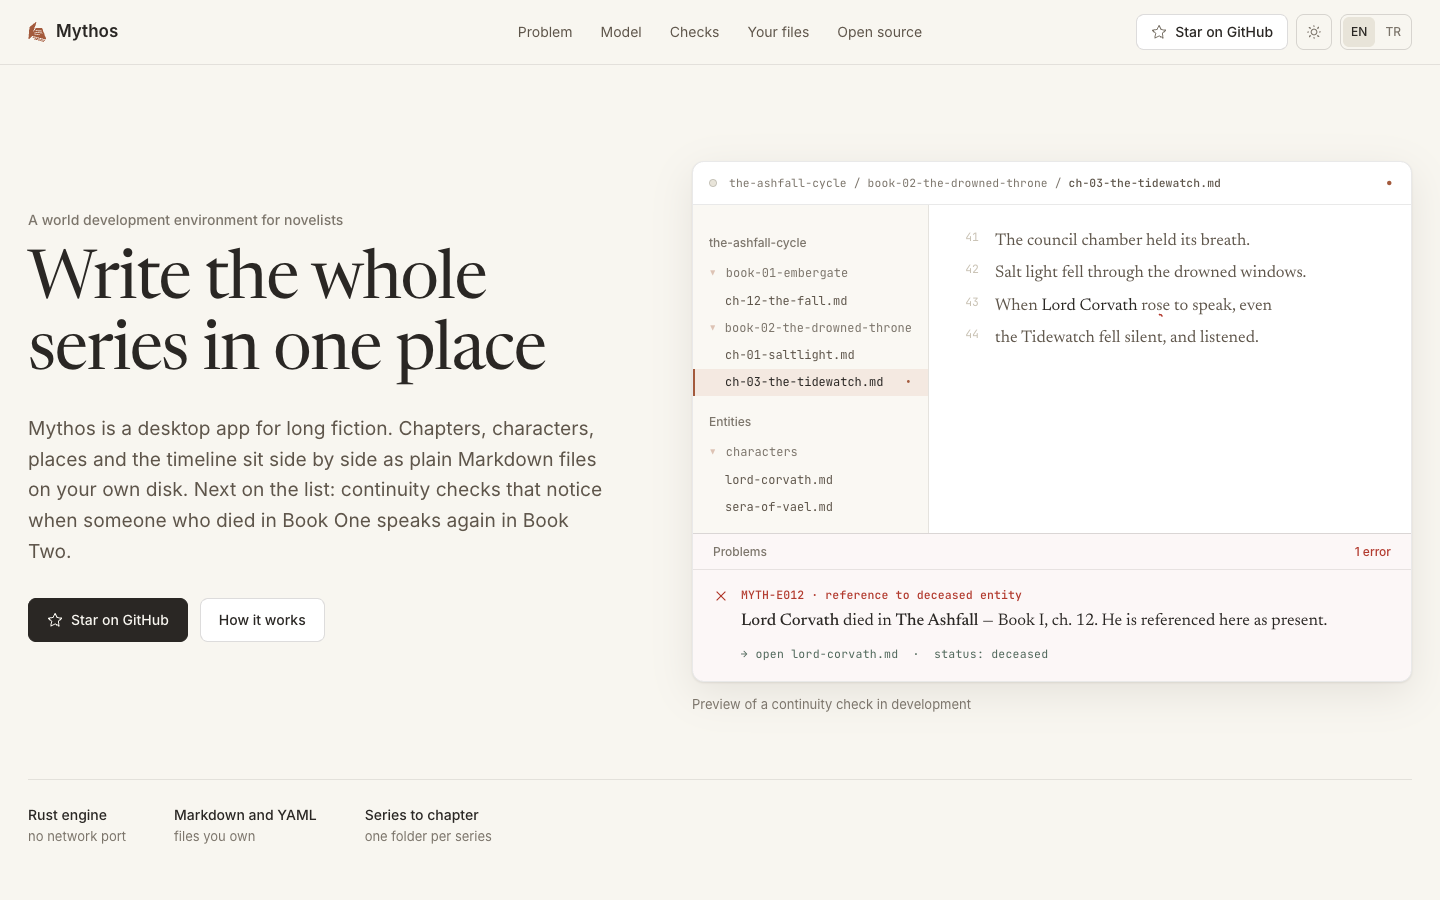
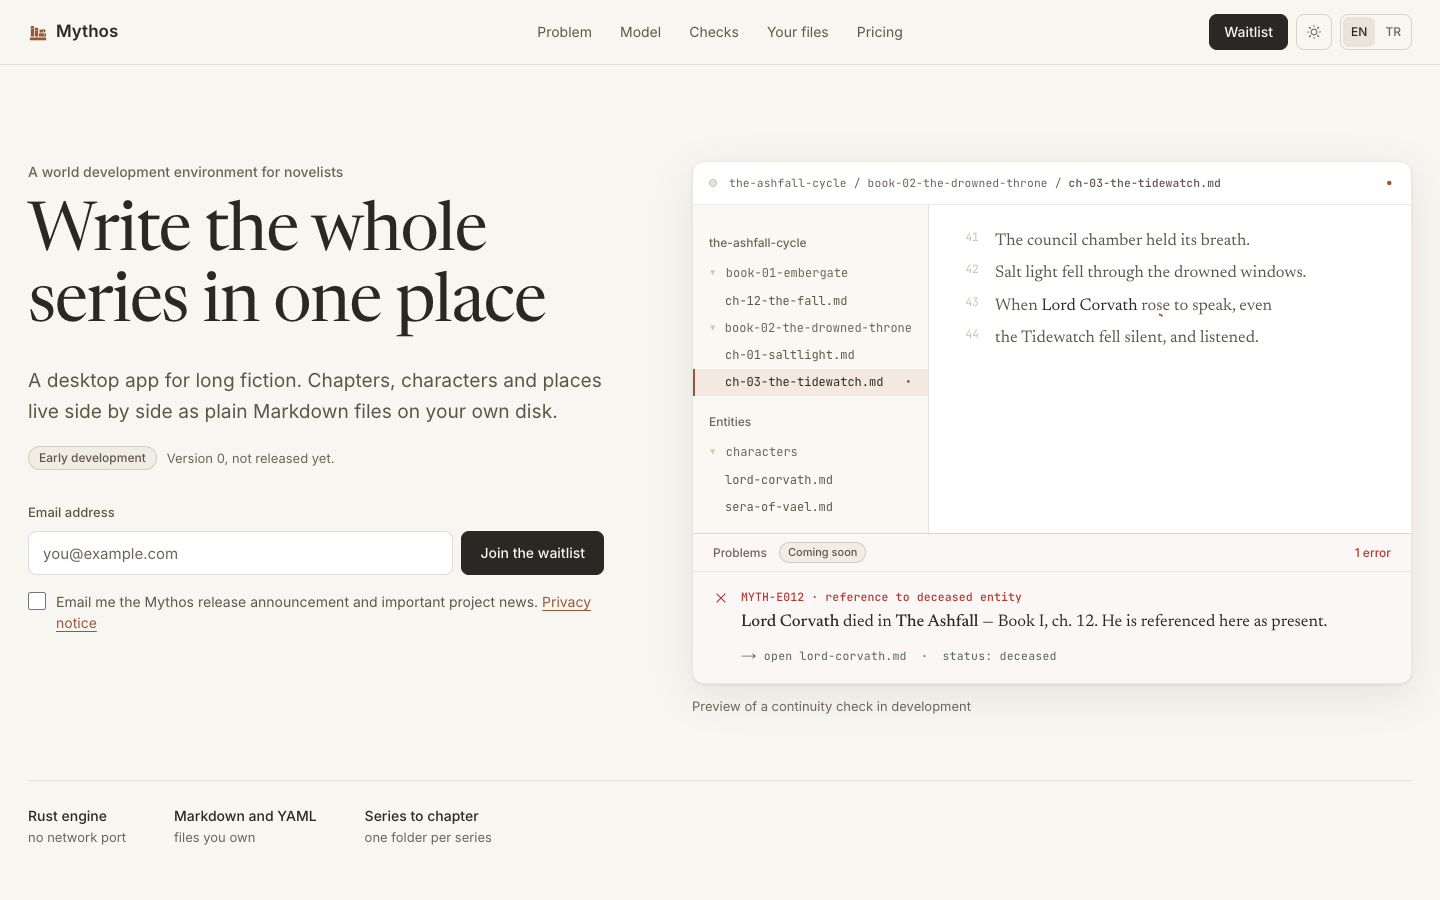
docs: refresh README for the current site
New hero with the shelf mark and the site's page map, a current screenshot,
what the page does with visitor data (waitlist, consent-gated analytics, cookies),
deploy steps, and the current layout. English and Turkish.

diff --git a/README.TR.md b/README.TR.md
@@ -1,5 +1,5 @@
 <p align="center">
-  <img src="assets/readme/hero.svg" width="100%" alt="mythoside.com, Mythos'un ürün sitesi">
+  <img src="assets/readme/hero.svg" width="100%" alt="mythoside.com, Mythos'un ürün sitesi: Mythos raf işareti ve yanında sitenin ürettiği altı sayfa; ana sayfa, aydınlatma metni ve kullanım şartları, her biri İngilizce ve Türkçe">
 </p>
 
 <p align="center">
@@ -7,12 +7,21 @@
 </p>
 
 <p align="center">
-  <a href="https://mythoside.com"><img src="assets/readme/site.png" width="100%" alt="mythoside.com'un ilk ekranı: 'Write the whole series in one place' başlığı ve yanında süreklilik kontrolü gösteren bir editör önizlemesi"></a>
+  <a href="https://mythoside.com"><img src="assets/readme/site.png" width="100%" alt="mythoside.com'un ilk ekranı: 'Write the whole series in one place' başlığı, onay kutulu bekleme listesi formu ve bir süreklilik hatasını işaretleyen editör önizlemesi"></a>
 </p>
 
-Seri yazmak için bir masaüstü uygulaması olan [Mythos](https://github.com/mythoside)'un ürün sitesi. İngilizce ve Türkçe, açık ve koyu temalı tek bir sayfa; uygulamayla aynı sıcak, editoryal görünümde. `main` dalına her merge'de Firebase Hosting'e dağıtılır.
+Seri yazmak için bir masaüstü uygulaması olan [Mythos](https://github.com/mythoside)'un ürün sitesi. Statik bir Next.js çıktısı: altı sayfa, İngilizce ve Türkçe, açık ve koyu tema. Firebase Hosting üzerinden yayınlanıyor. `main`'e yapılan her merge siteyi yayına alır.
 
-## Çalıştır
+## Sayfa ziyaretçiyle ne yapar
+
+| Bölüm | Ne olur |
+| --- | --- |
+| **Bekleme listesi** | Form, yalnızca onay kutusu işaretlendikten sonra Cloud Firestore'a (AB, `eur3`) `waitlist/<email>` kaydını yazar. [`firestore.rules`](./firestore.rules) her adres için tek bir kayda izin verir; kayıtta tam olarak beş alan bulunur ve hepsi denetlenir: e-posta, dil, zaman, onay ve onay metninin sürümü. Bunun dışında hiçbir şeye izin verilmez: okuma, listeleme, güncelleme ve silme kapalıdır. |
+| **Analitik** | Ziyaretçi çerez banner'ında analitiğe izin vermeden Google Tag Manager hiç istenmez. "Hayır" denirse ya da sonradan footer'daki "Çerez tercihleri"nden izin geri alınırsa kapalı kalır ve `_ga` çerezleri silinir. |
+| **Çerezler** | O izin olmadan site hiç çerez yazmaz. Tema, dil ve çerez tercihi `localStorage`'da tutulur. |
+| **Yasal sayfalar** | Aydınlatma metni ve kullanım şartları, iki dilde, [`src/content/`](./src/content) içinden üretilir. |
+
+## Çalıştırma
 
 ```bash
 git clone https://github.com/mythoside/mythoside-website.git
@@ -23,32 +32,45 @@ npm run build   # out/ içine statik çıktı
 npm run lint
 ```
 
-## Teknolojiler
+Yerel sunucudaki form da canlı Firestore'a yazar, yani deneme kaydı gerçek bir kayıt oluşturur.
 
-| Katman | Araç |
+## Yayına alma
+
+| Ne | Nasıl |
 | --- | --- |
-| Arayüz | React 19, TypeScript |
-| Çatı | Next.js (App Router, statik çıktı) |
-| Stil | Tailwind CSS v4 ve `app/globals.css` içindeki tasarım token'ları |
-| Yazı tipleri | Inter, Newsreader, JetBrains Mono, `next/font` ile |
-| Barındırma | Firebase Hosting, GitHub Actions ile dağıtım |
+| Sayfalar | `main`'e merge et. GitHub Actions lint ve build'i çalıştırır, sonra `out/` klasörünü Firebase Hosting'e yükler. Pull request'ler için bir önizleme kanalı açılır. |
+| Firestore kuralları | `npx firebase-tools deploy --only firestore:rules --project mythoside` |
+| Hoş geldin maili | [`functions/`](./functions), yeni kayıtlara SMTP üzerinden mail gönderecek bir Cloud Function içerir. **Yayında değil.** Yayına alınmadan önce aydınlatma metninde mail sağlayıcısının adı yazmalı. |
+
+## Teknoloji
+
+| Katman | Araçlar |
+| --- | --- |
+| Arayüz | React 19, TypeScript, `any` yok |
+| Çatı | Next.js App Router, `output: 'export'` |
+| Stil | Tailwind CSS v4 ve `app/globals.css` içindeki tasarım değişkenleri |
+| Yazı tipleri | Inter, Newsreader, JetBrains Mono; `next/font` ile siteden sunulur |
+| Veri | REST API üzerinden Cloud Firestore; sayfada Firebase SDK yok |
+| Barındırma | Firebase Hosting, GitHub Actions ile yayına alınır |
 
 ## Klasör yapısı
 
 ```text
-app/(en)/, app/tr/       / ve /tr için kök layout ve sayfalar (her biri kendi <html lang> değerini taşır)
-firestore.rules           bekleme listesi kuralları: yalnızca oluşturma, doğrulamalı
-app/globals.css           tasarım token'ları, açık ve koyu tema
-src/enums.ts              kapalı seçenek kümeleri: Lang, Theme, ButtonVariant, IconName, NodeKind, SectionId, RuleSeverity, TreeRowKind
-src/i18n/                 sitedeki bütün metinler, İngilizce ve Türkçe; sağlayıcı ve geçiş düğmesi
-src/theme/                tema sağlayıcısı ve geçiş düğmesi
-src/components/sections/  Navbar, Hero, Problem, HowItWorks, Features, Philosophy, OpenSource, FinalCTA, Footer
-src/components/ui/        Logo, Icon, ReferenceGraph (canvas kuvvet grafiği), Button, Card, FadeIn, SectionShell
-public/                   favicon, paylaşım görseli (og.png), robots.txt, sitemap.xml ve logo dosyaları
+app/(en)/, app/tr/        sayfalar: /, /privacy, /terms ve /tr, /tr/gizlilik, /tr/kullanim-sartlari
+app/globals.css           tasarım değişkenleri, açık ve koyu tema
+src/i18n/messages.ts      sayfadaki her metin, İngilizce ve Türkçe
+src/content/              aydınlatma metni ve kullanım şartları, İngilizce ve Türkçe
+src/components/sections/  ana sayfa: Navbar, Hero, Problem, HowItWorks, Features, Philosophy, OpenSource, FinalCTA, Footer
+src/components/ui/        Logo, WaitlistForm, ConsentBanner, ReferenceGraph ve küçük parçalar
+src/lib/                  bekleme listesi (Firestore), analitik (onay ve GTM), SEO, yazı tipleri, depolama anahtarları
+src/enums.ts              bileşenleri besleyen kapalı seçenek kümeleri
+firestore.rules           bekleme listesi kuralları
+functions/                hoş geldin maili (yayında değil)
+public/                   favicon, paylaşım görseli, logo dosyaları, robots.txt, sitemap.xml
 ```
 
-Metni değiştirmek için `src/i18n/messages.ts` dosyasını düzenle; İngilizce ve Türkçe girdileri birlikte güncelle.
+Bir metni değiştirmek için `src/i18n/messages.ts` dosyasını düzenle; İngilizce ve Türkçe karşılıkları birlikte güncelle. Onay kutusunun ya da aydınlatma metninin söylediği şeyi değiştirirsen `src/lib/waitlist.ts` içindeki `CONSENT_VERSION` değerini artır.
 
 ## Lisans
 
-Sitenin kodu MIT lisanslı, bkz. [LICENSE](./LICENSE). Mythos adı ve logosu bu lisansın kapsamında değildir. Motor ve uygulama kendi repolarında FSL-1.1-ALv2 ile lisanslıdır.
+Sitenin kodu MIT lisanslı, bkz. [LICENSE](./LICENSE). Mythos adı ve logosu bu lisansın kapsamında değil. Motor ve uygulama, kendi repolarında FSL-1.1-ALv2 lisansıyla yayımlanıyor.

diff --git a/README.md b/README.md
@@ -1,5 +1,5 @@
 <p align="center">
-  <img src="assets/readme/hero.svg" width="100%" alt="mythoside.com, the Mythos product site">
+  <img src="assets/readme/hero.svg" width="100%" alt="mythoside.com, the Mythos product site: the Mythos shelf mark beside the six pages the site exports, home, privacy notice and terms of use, each in English and Turkish">
 </p>
 
 <p align="center">
@@ -7,10 +7,19 @@
 </p>
 
 <p align="center">
-  <a href="https://mythoside.com"><img src="assets/readme/site.png" width="100%" alt="The first screen of mythoside.com: the headline 'Write the whole series in one place' beside a preview of the editor with a continuity check"></a>
+  <a href="https://mythoside.com"><img src="assets/readme/site.png" width="100%" alt="The first screen of mythoside.com: the headline 'Write the whole series in one place', the waitlist form with its consent checkbox, and a preview of the editor flagging a continuity error"></a>
 </p>
 
-The product site for [Mythos](https://github.com/mythoside), a desktop app for writing a series. One page in English and Turkish, with light and dark themes, in the same warm editorial style as the app. It deploys to Firebase Hosting on every merge to `main`.
+The product site for [Mythos](https://github.com/mythoside), a desktop app for writing a series. It is a static Next.js export: six pages, English and Turkish, light and dark themes, served by Firebase Hosting. Every merge to `main` deploys it.
+
+## What the page does with visitors
+
+| Part | What happens |
+| --- | --- |
+| **Waitlist** | The form writes `waitlist/<email>` to Cloud Firestore (EU, `eur3`) only after the consent box is ticked. [`firestore.rules`](./firestore.rules) allow one create per address, with exactly five checked fields (email, language, time, consent, consent wording version), and nothing else: no read, list, update or delete. |
+| **Analytics** | Google Tag Manager is not requested at all until the visitor allows analytics in the cookie banner. Saying no, or withdrawing later from "Cookie settings" in the footer, keeps it off and deletes the `_ga` cookies. |
+| **Cookies** | Without that yes, the site sets none. Theme, language and the cookie choice live in `localStorage`. |
+| **Legal pages** | Privacy notice and terms of use, in both languages, written from [`src/content/`](./src/content). |
 
 ## Run it
 
@@ -23,31 +32,44 @@ npm run build   # static export in out/
 npm run lint
 ```
 
+The form on a local server talks to the live Firestore, so a test signup creates a real entry.
+
+## Deploy
+
+| What | How |
+| --- | --- |
+| Pages | Merge to `main`. GitHub Actions runs lint and build, then deploys `out/` to Firebase Hosting. Pull requests get a preview channel. |
+| Firestore rules | `npx firebase-tools deploy --only firestore:rules --project mythoside` |
+| Welcome email | [`functions/`](./functions) holds a Cloud Function that would email new signups through SMTP. It is **not deployed**. Before it is, the privacy notice must name the mail provider. |
+
 ## Stack
 
 | Layer | Tooling |
 | --- | --- |
-| UI | React 19, TypeScript |
-| Framework | Next.js (App Router, static export) |
-| Styling | Tailwind CSS v4 and the design tokens in `app/globals.css` |
-| Fonts | Inter, Newsreader, JetBrains Mono, via `next/font` |
+| UI | React 19, TypeScript, no `any` |
+| Framework | Next.js App Router, `output: 'export'` |
+| Styling | Tailwind CSS v4 plus the design tokens in `app/globals.css` |
+| Fonts | Inter, Newsreader, JetBrains Mono, self-hosted by `next/font` |
+| Data | Cloud Firestore over its REST API, no Firebase SDK in the page |
 | Hosting | Firebase Hosting, deployed by GitHub Actions |
 
 ## Layout
 
 ```text
-app/(en)/, app/tr/       root layouts and pages for / and /tr (each ships its own <html lang>)
-firestore.rules           waitlist rules: create-only, validated
+app/(en)/, app/tr/        routes: /, /privacy, /terms and /tr, /tr/gizlilik, /tr/kullanim-sartlari
 app/globals.css           design tokens, light and dark themes
-src/enums.ts              closed option sets: Lang, Theme, ButtonVariant, IconName, NodeKind, SectionId, RuleSeverity, TreeRowKind
-src/i18n/                 every line of copy, in English and Turkish, plus the provider and toggle
-src/theme/                theme provider and toggle
-src/components/sections/  Navbar, Hero, Problem, HowItWorks, Features, Philosophy, OpenSource, FinalCTA, Footer
-src/components/ui/        Logo, Icon, ReferenceGraph (canvas force graph), Button, Card, FadeIn, SectionShell
-public/                   favicon, share image (og.png), robots.txt, sitemap.xml and logo files
+src/i18n/messages.ts      every line of page copy, English and Turkish
+src/content/              privacy notice and terms of use, English and Turkish
+src/components/sections/  the home page: Navbar, Hero, Problem, HowItWorks, Features, Philosophy, OpenSource, FinalCTA, Footer
+src/components/ui/        Logo, WaitlistForm, ConsentBanner, ReferenceGraph and smaller parts
+src/lib/                  waitlist (Firestore), analytics (consent and GTM), SEO, fonts, storage keys
+src/enums.ts              closed option sets that feed the components
+firestore.rules           waitlist rules
+functions/                welcome email (not deployed)
+public/                   favicon, share image, logo files, robots.txt, sitemap.xml
 ```
 
-To change copy, edit `src/i18n/messages.ts` and keep the English and Turkish entries in step.
+To change copy, edit `src/i18n/messages.ts` and keep English and Turkish in step. If you change what the consent checkbox or privacy notice says, bump `CONSENT_VERSION` in `src/lib/waitlist.ts`.
 
 ## License
 
